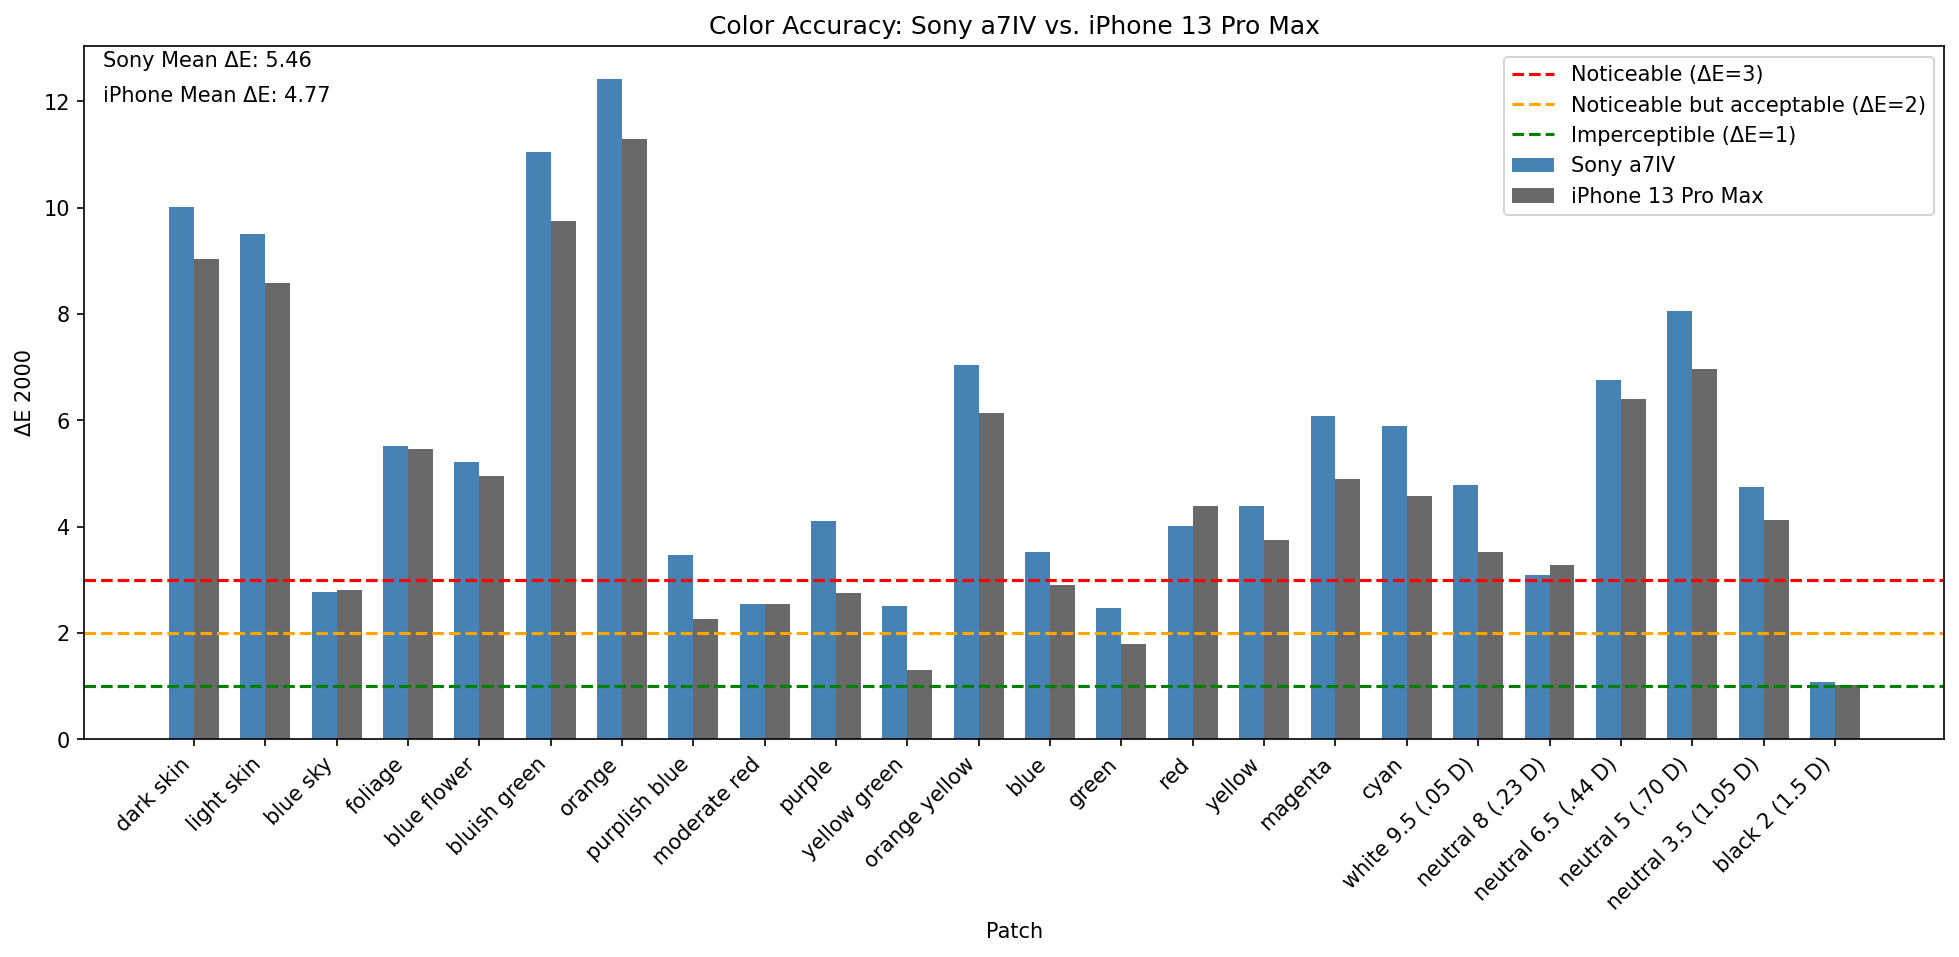
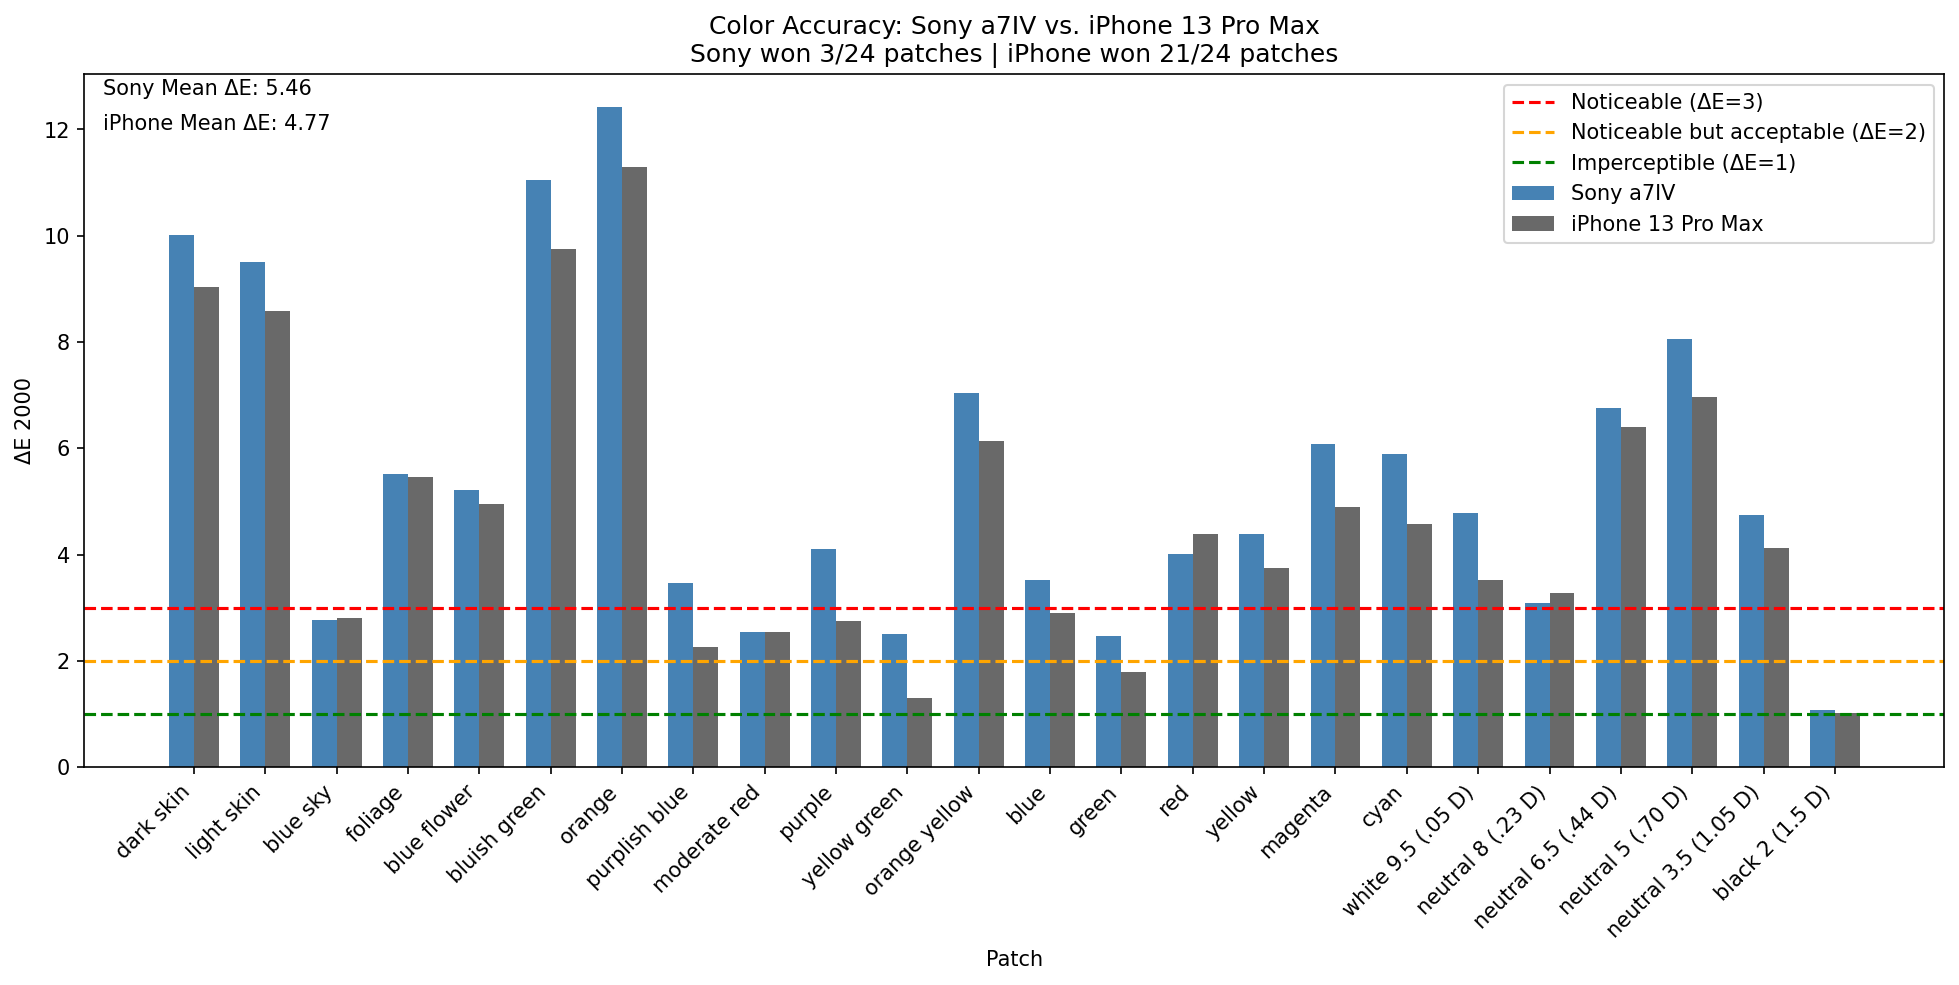
Add winner count-subtitle Fixes #12

diff --git a/main.py b/main.py
@@ -268,9 +268,8 @@ def compare_cameras(iphone_delta_e: np.ndarray, sony_delta_e: np.ndarray, color_
 
     ax.set_xlabel('Patch')
     ax.set_ylabel('ΔE 2000')
-    ax.set_title('Color Accuracy: Sony a7IV vs. iPhone 13 Pro Max')
+    ax.set_title(f'Color Accuracy: Sony a7IV vs. iPhone 13 Pro Max\nSony won {sony_wins}/24 patches | iPhone won {iphone_wins}/24 patches')
 
-    # TODO #12 Add winner count subtitle
     # save file
     plt.savefig('./comparision.png', dpi=150, bbox_inches='tight')
     plt.show()
